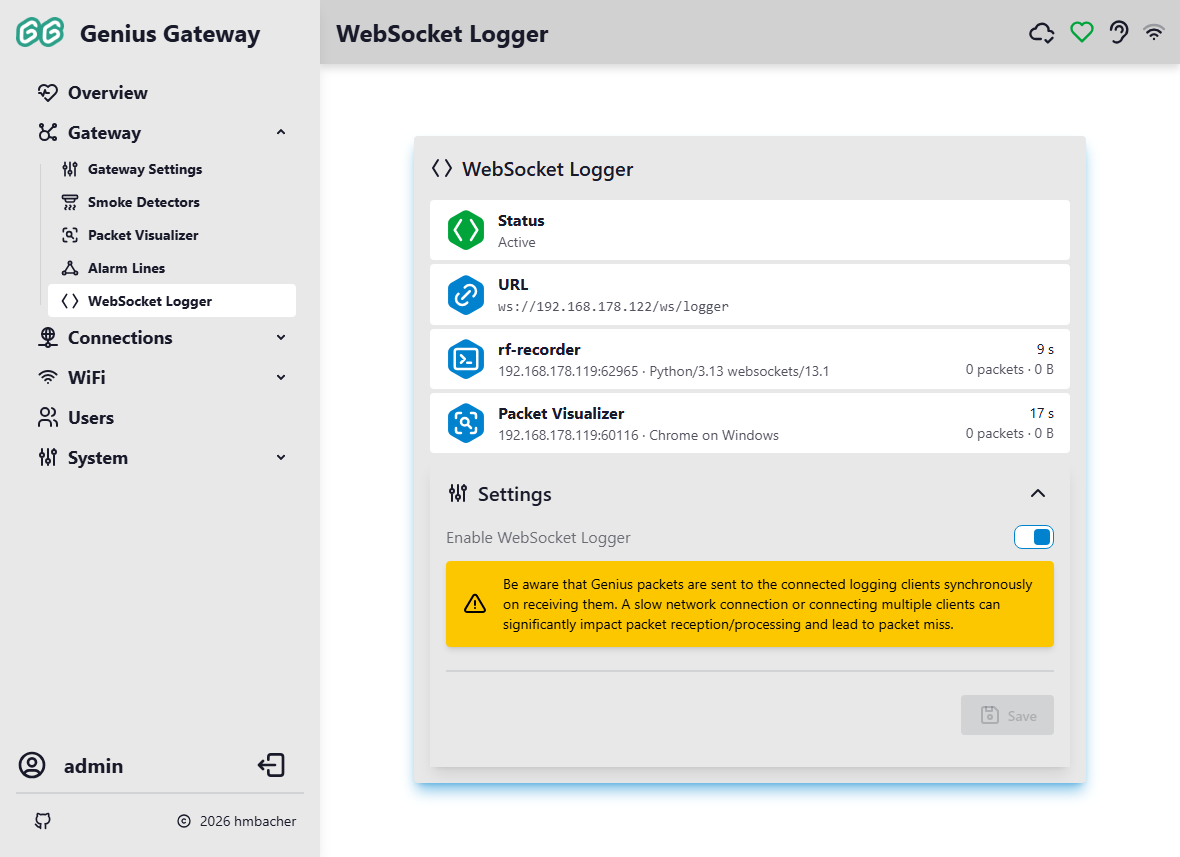
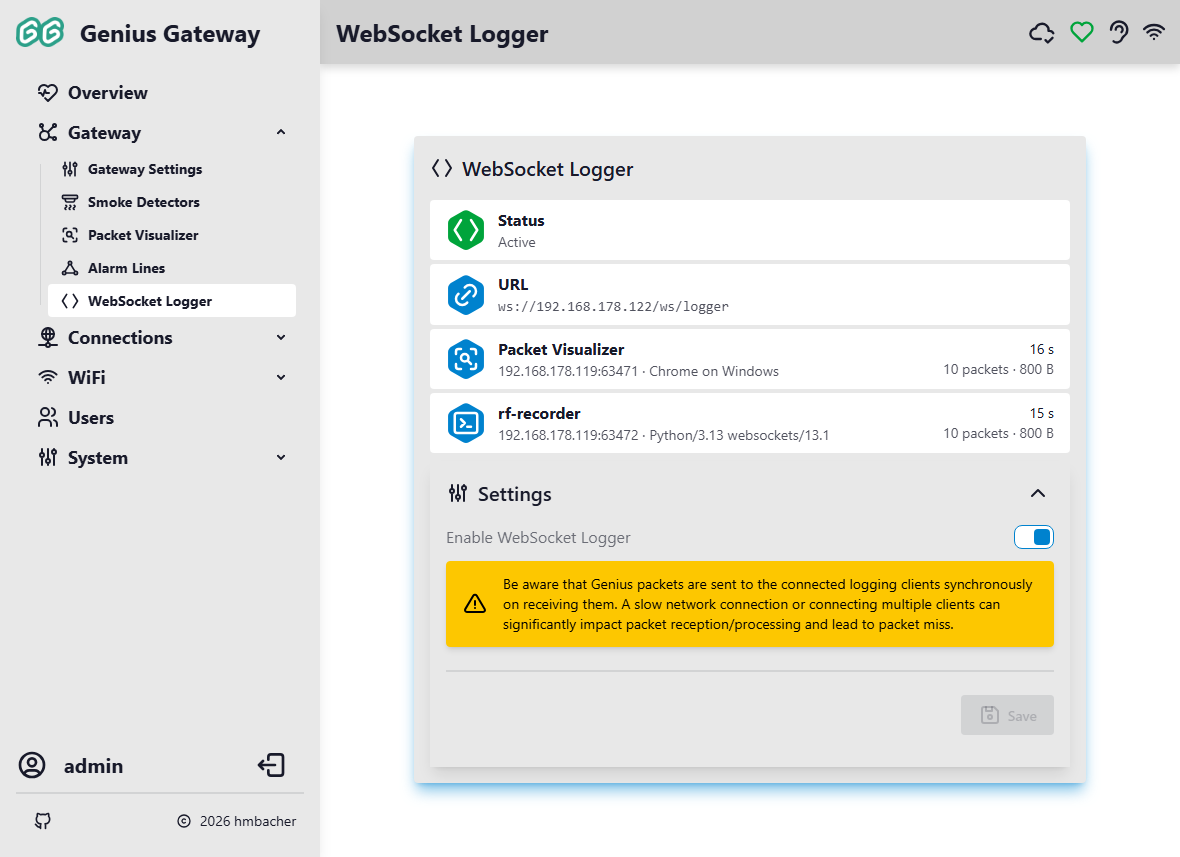
docs(wslogger): connection limit, visualizer reconnect, screenshot with counters

diff --git a/CHANGELOG.md b/CHANGELOG.md
@@ -171,6 +171,8 @@ See **[Home Assistant Integration](https://hmbacher.github.io/genius-gateway/set
     - Only readouts of radio modules that report one of these bits are affected; modules that report `0x00` in both fields (as an FM Basis X without set flags does) were always shown correctly
     - Stored readouts are corrected without a new readout: the gateway stores the two bytes unchanged, only their interpretation was wrong
     - The [acoustic readout documentation](https://hmbacher.github.io/genius-gateway/reverse-engineering/acoustic-readout/) lists the corrected bit tables
+- **New connections were refused after about nine**: the web server may hold 13 connections and closes the least recently used one beyond that, but the network stack had only 16 sockets for everything - web server, MQTT, mDNS, time sync. They ran out first: a new connection was reset and the web server never got to close an idle one. Two browser tabs on the gateway were enough to lock out a WebSocket logger client or the Packet Visualizer. The network stack now has 24 sockets
+- **Packet Visualizer stayed disconnected without saying so**: when its connection to the WebSocket logger was refused or lost - gateway restart, too many connections, logger switched off - it kept showing "Waiting for packets...". It now connects again by itself (after 2 s, then waiting longer up to 15 s) and shows while it has no connection; a disabled logger is checked again every 10 s
 
 # v1.5.0
 

diff --git a/docs/features/packet-visualizer.md b/docs/features/packet-visualizer.md
@@ -11,6 +11,8 @@ The Packet Visualizer provides real-time monitoring and analysis of RF communica
 !!! info "WebSocket Logger Required"
     The Packet Visualizer requires the WebSocket Logger to be enabled. If disabled, you'll see an informational message with a link to enable it in the [WebSocket Logger Settings](websocket-interface.md).
 
+    If the connection to the logger is refused or lost - the gateway restarts, the logger is switched off - the Packet Visualizer says so below the packet list and connects again by itself. Packets received while it had no connection are not shown. While the page is open it is listed on the WebSocket Logger page as a [connected client](websocket-interface.md#connected-clients).
+
 ## Overview
 
 The Packet Visualizer displays captured RF packets in real-time with intelligent deduplication, detailed interpretation, and visual highlighting. Each packet type is automatically identified and decoded to show meaningful information about detector communication, alarms, commissioning activities, and network topology.

diff --git a/docs/api/websocket-api.md b/docs/api/websocket-api.md
@@ -798,6 +798,7 @@ For further details, also see [WebSocket Logging Interface](../features/websocke
 - No login: the connection filter only checks that the logger is enabled. Anyone in the network can read the received radio packets while it is - switch the logger off when it is not needed
 - Multiple clients can connect simultaneously
 - Each client receives all packets (broadcast)
+- The gateway holds up to 13 HTTP and WebSocket connections at once; beyond that it closes the least recently used one, which can be an idle logger connection. A tool should connect again when its connection closes - the built-in Packet Visualizer does
 - A client can name itself with the query parameter `client` (`/ws/logger?client=my-recorder`); the name is shown in the list of connected clients on the WebSocket Logger page and in [`/rest/wslogger/clients`](http-api.md#restwsloggerclients)
 - Binary format requires client-side parsing
 - Timestamp is in microseconds since device boot
